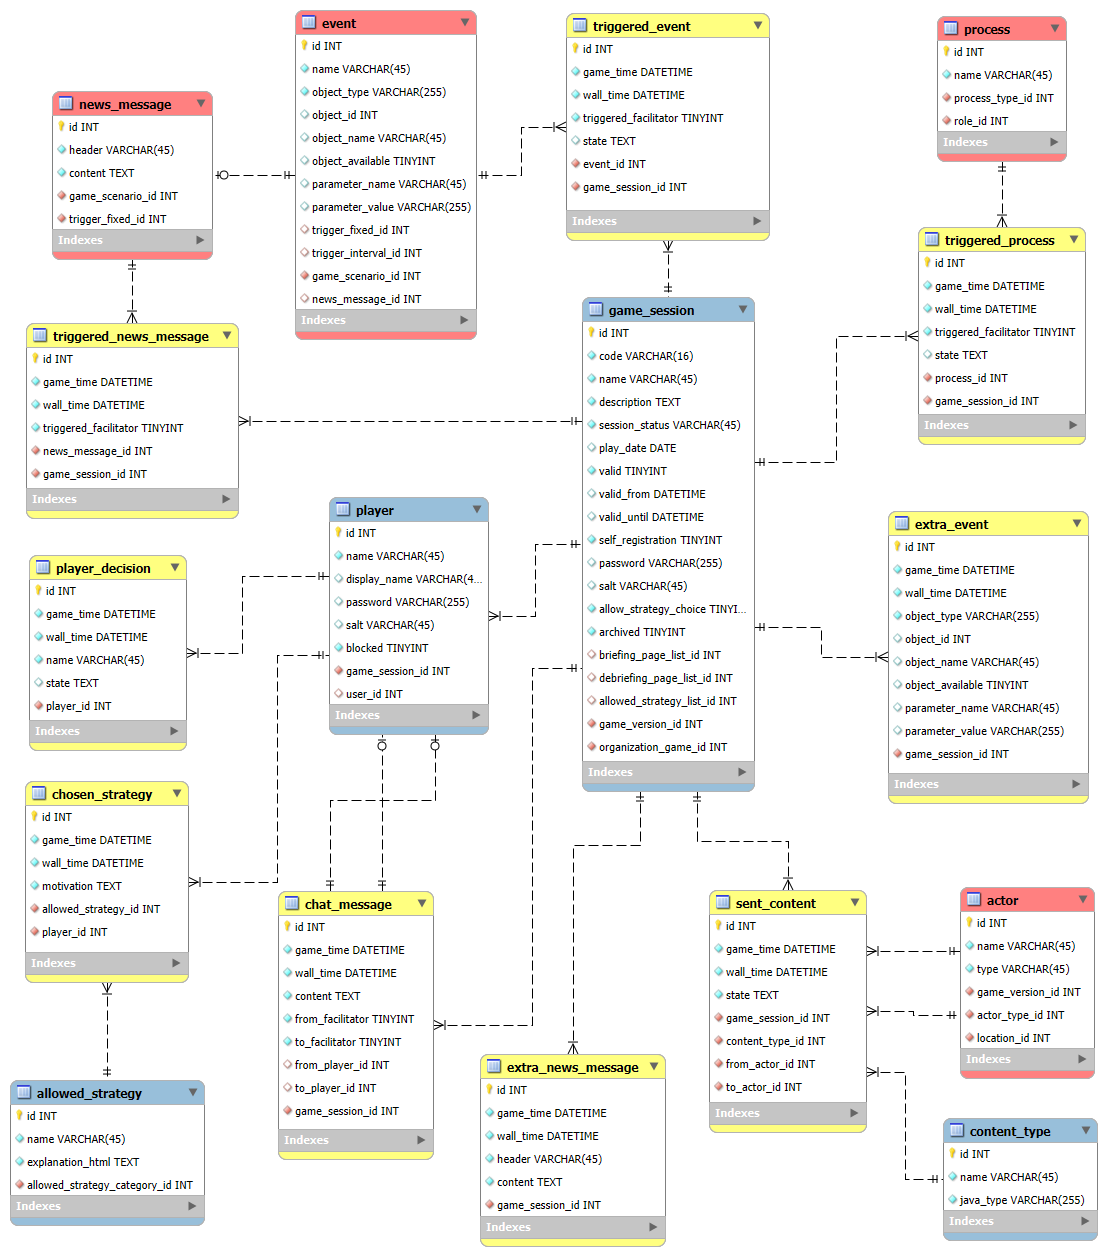
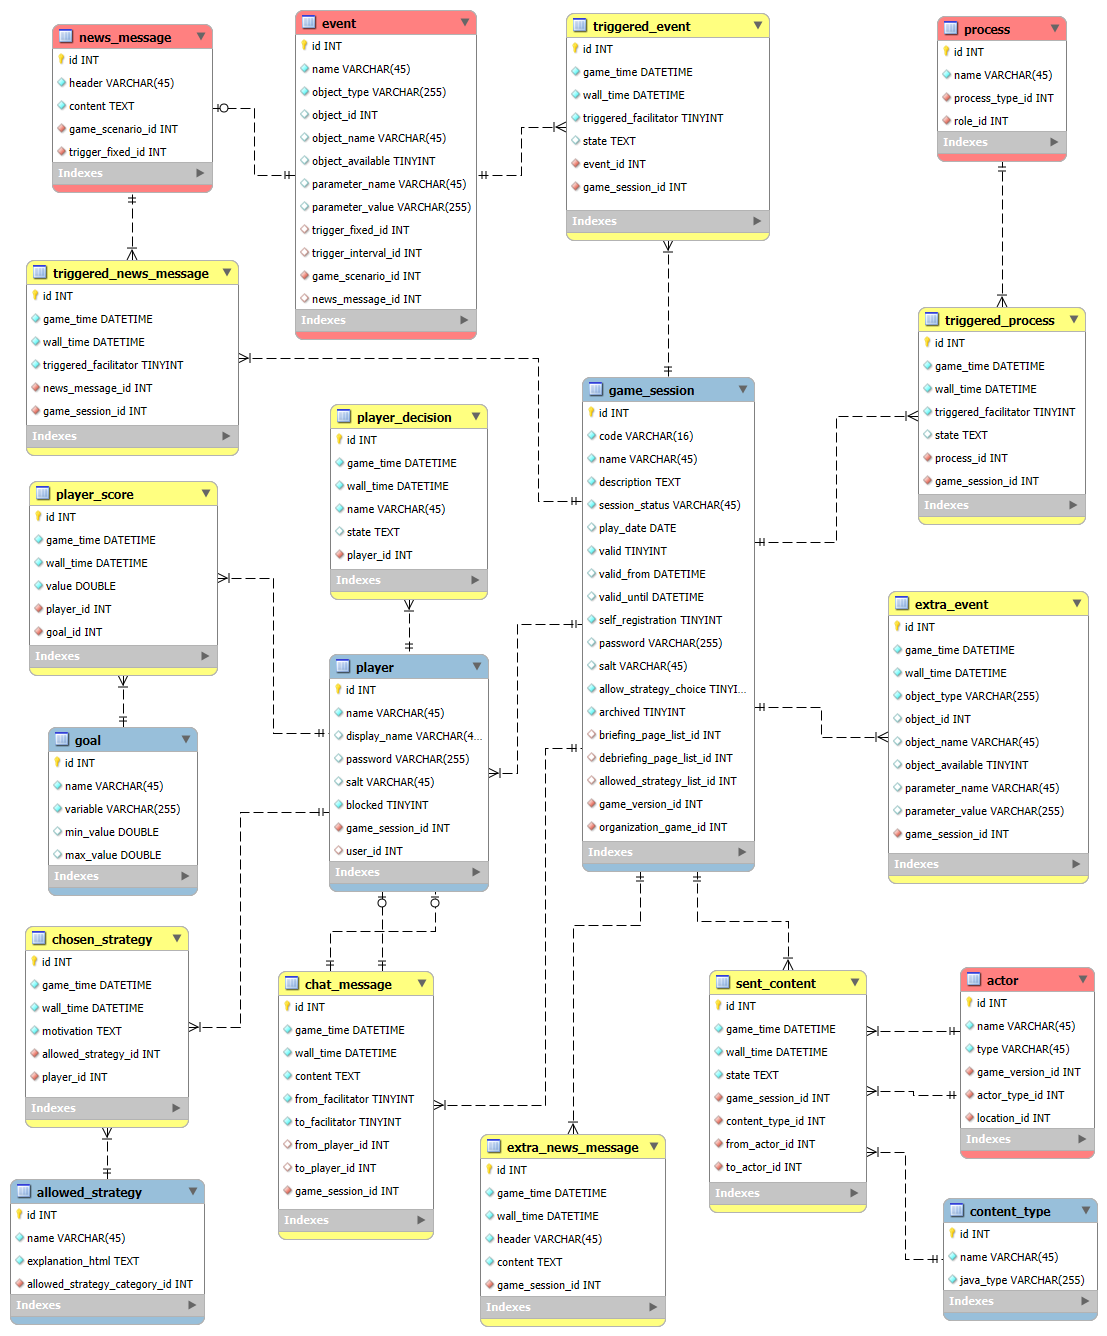
Issue #34. Record triggered events in the database

diff --git a/doc/4-architecture/database-design.md b/doc/4-architecture/database-design.md
@@ -31,6 +31,7 @@ __Changelog:__
  - 2025-08-30 - Store chats in the database [Issue #35](https://github.com/averbraeck/gscg-design/issues/35).
  - 2025-08-30 - Add game play data for extra news items [Issue #31](https://github.com/averbraeck/gscg-design/issues/31).
  - 2025-08-30 - Add game play data for extra events [Issue #32](https://github.com/averbraeck/gscg-design/issues/32).
+ - 2025-08-30 - Record triggered events in the database [Issue #34](https://github.com/averbraeck/gscg-design/issues/34).
  
  
 
@@ -446,7 +447,7 @@ The non-functional requirements have no effect on the database.
 - FC5.16 The event of adding an intervention to the the game session must be sent to the gamedata platform
   <br>No consequences for database.
 - FO5.17 The facilitator should be able to trigger an existing manual intervention during gameplay
-  <br>The `trigger_interval` and `trigger_fixed` tables have a boolean field called `facilitator_trigger`. If true, the facilitator can trigger the event. We must record the fact that an event has been triggered. See NOTE.
+  <br>The `trigger_interval` and `trigger_fixed` tables have a boolean field called `facilitator_trigger`. If true, the facilitator can trigger the event. The fact that an event has been triggered is stored into the `triggered_event` table.
 - FC5.18 The event of triggering an existing intervention during the the game play must be sent to the gamedata platform
   <br>No consequences for database.
 - FO5.19 The session facilitation should present an overview of the players allocated to a session
@@ -472,8 +473,6 @@ The non-functional requirements have no effect on the database.
 
 The non-functional requirements have no effect on the database.
 
-> [!NOTE]
-> **FO5.17**: Record that an event has been triggered to the database. This probably asks for a new table that is linked to the `game_session`.
 
 
 ### 4.1.6.6. Game play
